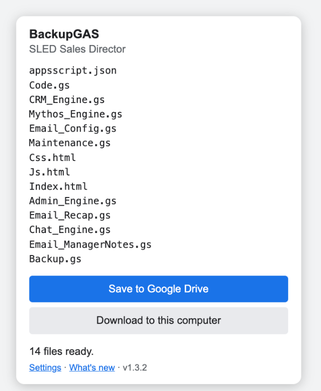
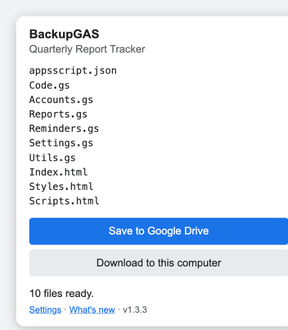
Switch to Apache License 2.0; neutral screenshots
Apache 2.0 adds an explicit patent grant over MIT, which matters for the
corporate users most likely to hit this problem. Screenshots regenerated
with a sample project so no internal project or file names are published.

Claude-Session: https://claude.ai/code/session_01NETZqZPPyFqUkUVbYQWZYB

Changed region(s): [[0.0312, 0.0303, 1.0, 0.9697], [0.0625, 0.8182, 1.0, 1.0]]

diff --git a/README.md b/README.md
@@ -97,4 +97,4 @@ No analytics, no servers, nothing leaves your machine except the files you send 
 
 ## License
 
-[MIT](LICENSE)
+[Apache License 2.0](LICENSE) — free to use, modify and distribute, including commercially, with an explicit patent grant. Keep the notice and state your changes.
